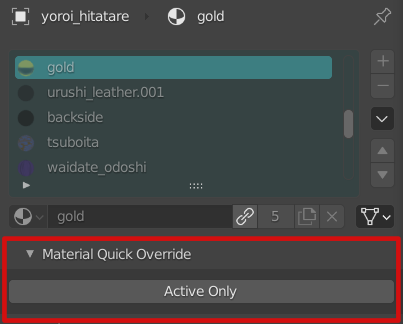
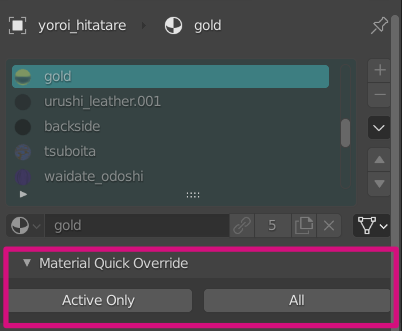
Update README

diff --git a/README.md b/README.md
@@ -1,5 +1,22 @@
-# Material Quick Override
+Material Quick Override
+====
 
 ![screenshot](./screenshot.png)
 
-Add "Override Material" button which makes library overrided materials to be local.
+This add-on adds "Quick Override" buttons that localizes the material added by Library Override.
+
+
+Installation
+----
+
+1. Download ZIP package.
+2. In Blender, install via **"Edit > Preferences... > Add-ons > Install..."**
+
+
+Usage
+----
+
+"Material Quick Override" panel appears on Material Properties.
+
+- **Active Only**: Make the selected material local.
+- **All**: Make all materials in list local.
